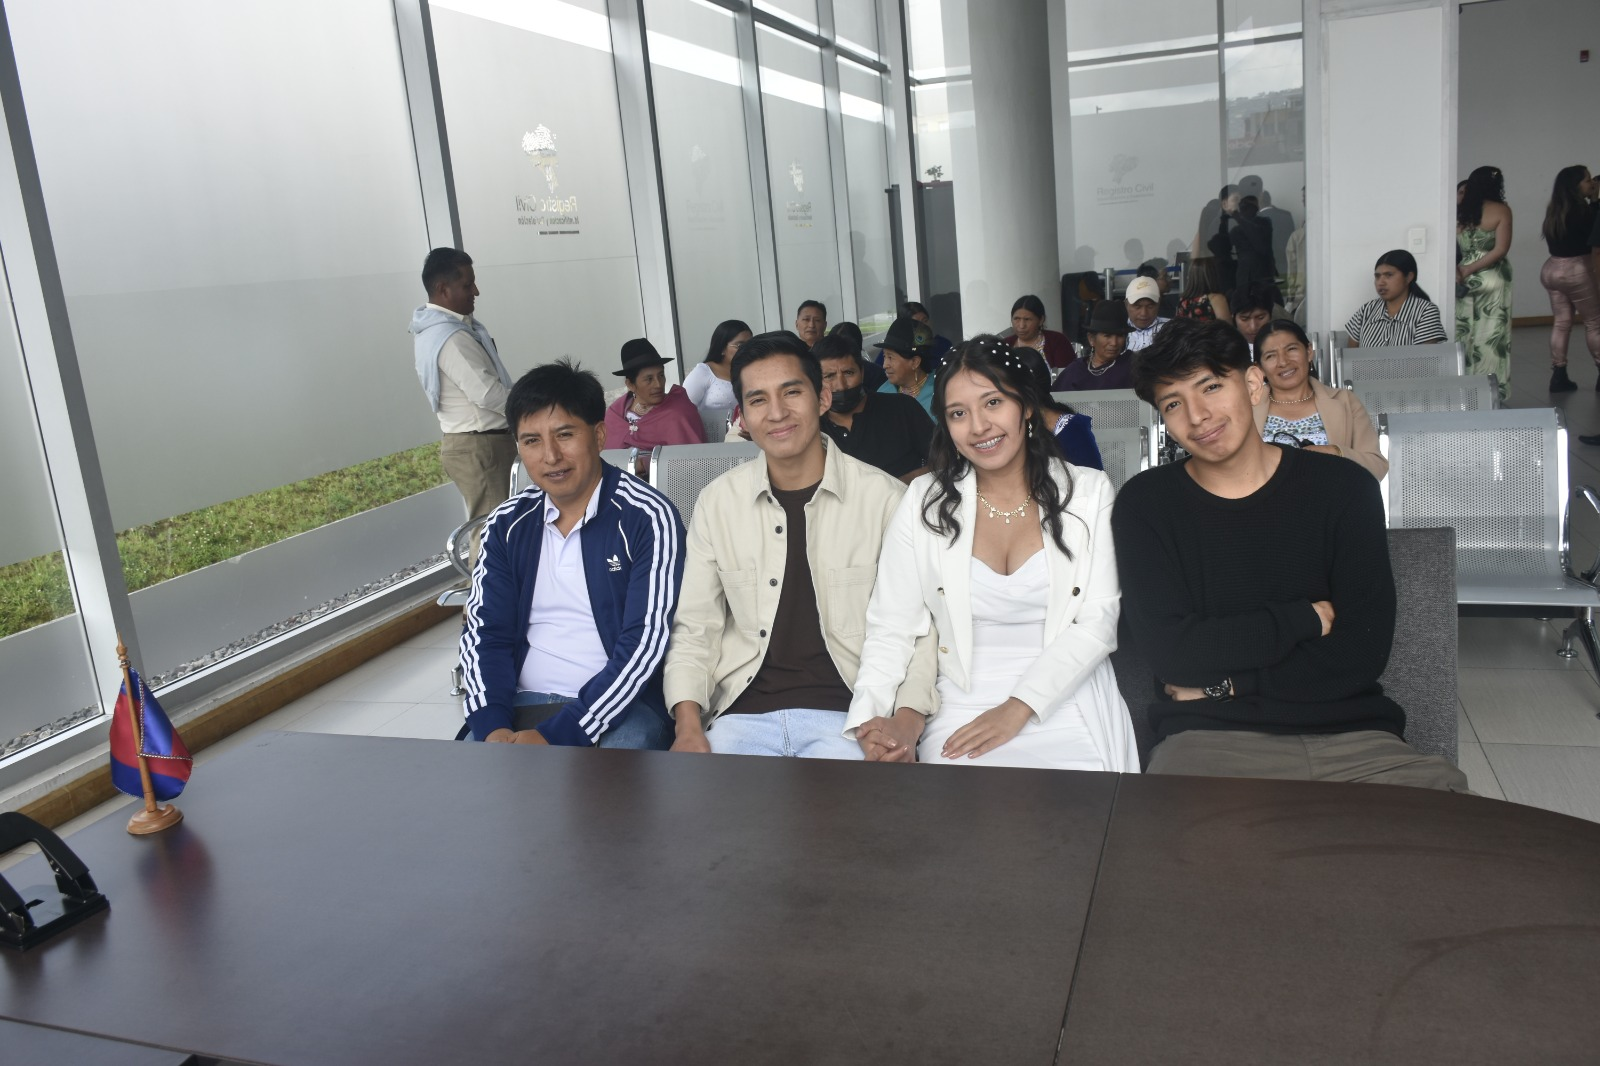
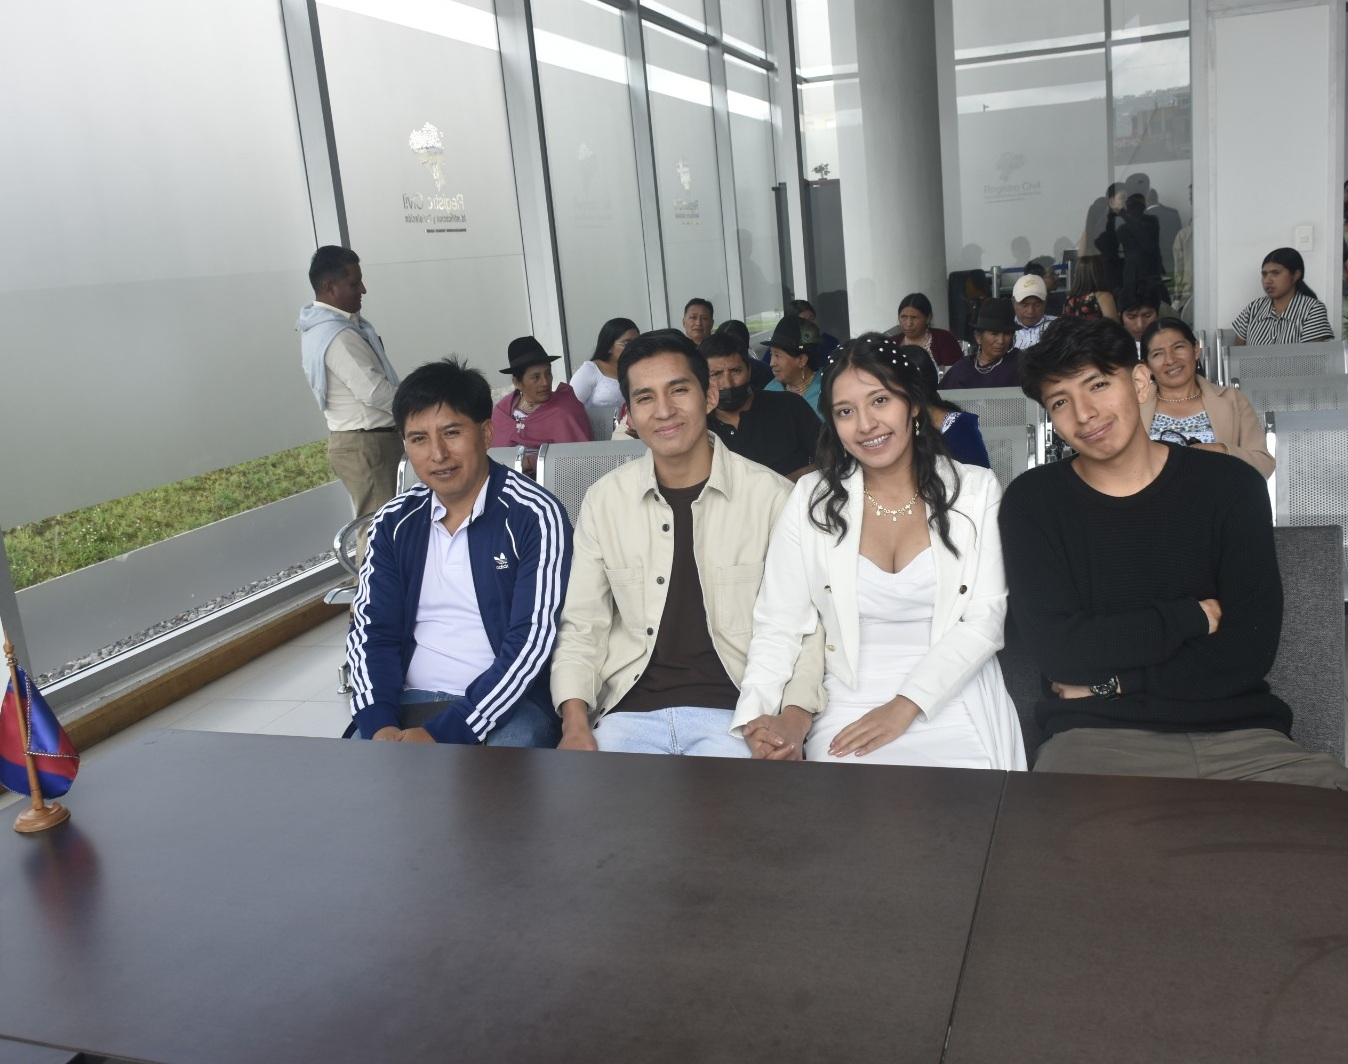
update images

diff --git a/marriage/src/components/wedding/rsvp-section.tsx b/marriage/src/components/wedding/rsvp-section.tsx
@@ -14,21 +14,20 @@ export function RsvpSection() {
     <section id="rsvp" className="bg-card py-20 md:py-28">
       <div className="mx-auto max-w-xl px-6 text-center">
         <p className="text-xs uppercase tracking-[0.3em] text-muted-foreground">
-          Be part of our day
+          Sé parte de nuestro día
         </p>
         <h2 className="mt-3 font-serif text-4xl text-foreground md:text-5xl text-balance">
-          RSVP
+          ASISTENCIA
         </h2>
         <p className="mt-4 leading-relaxed text-muted-foreground">
-          Kindly respond by August 1, 2026. We would be honored to celebrate
-          this special day with you.
+          Por favor responda antes del 5 de marzo de 2026. Sería un honor para nosotros celebrar este día especial con usted.
         </p>
 
         {submitted ? (
           <div className="mt-10 border border-border bg-background px-8 py-10">
-            <h3 className="font-serif text-2xl text-foreground">Thank You</h3>
+            <h3 className="font-serif text-2xl text-foreground">Gracias</h3>
             <p className="mt-3 text-muted-foreground">
-              {"We've received your RSVP and can't wait to celebrate with you!"}
+              {"Hemos recibido su confirmación y ¡no podemos esperar para celebrar con usted!"}
             </p>
           </div>
         ) : (
@@ -42,7 +41,7 @@ export function RsvpSection() {
                   htmlFor="firstName"
                   className="text-xs uppercase tracking-[0.15em] text-muted-foreground"
                 >
-                  First Name
+                  Nombre
                 </label>
                 <input
                   id="firstName"
@@ -57,7 +56,7 @@ export function RsvpSection() {
                   htmlFor="lastName"
                   className="text-xs uppercase tracking-[0.15em] text-muted-foreground"
                 >
-                  Last Name
+                  Apellido
                 </label>
                 <input
                   id="lastName"
@@ -74,7 +73,7 @@ export function RsvpSection() {
                 htmlFor="email"
                 className="text-xs uppercase tracking-[0.15em] text-muted-foreground"
               >
-                Email
+                Correo
               </label>
               <input
                 id="email"
@@ -90,7 +89,7 @@ export function RsvpSection() {
                 htmlFor="attendance"
                 className="text-xs uppercase tracking-[0.15em] text-muted-foreground"
               >
-                Attendance
+                Asistencia
               </label>
               <select
                 id="attendance"
@@ -98,9 +97,9 @@ export function RsvpSection() {
                 required
                 className="border border-border bg-background px-4 py-3 text-sm text-foreground outline-none transition-colors focus:border-accent"
               >
-                <option value="">Select an option</option>
-                <option value="attending">Joyfully Accepts</option>
-                <option value="not-attending">Respectfully Declines</option>
+                <option value="">Seleccione una opción</option>
+                <option value="attending">Asistirá con alegría</option>
+                {/* <option value="not-attending">Declina respetuosamente</option> */}
               </select>
             </div>
 
@@ -109,7 +108,7 @@ export function RsvpSection() {
                 htmlFor="guests"
                 className="text-xs uppercase tracking-[0.15em] text-muted-foreground"
               >
-                Number of Guests
+                Número de invitados
               </label>
               <select
                 id="guests"
@@ -120,6 +119,7 @@ export function RsvpSection() {
                 <option value="2">2</option>
                 <option value="3">3</option>
                 <option value="4">4</option>
+                <option value="5">5</option>
               </select>
             </div>
 
@@ -128,7 +128,7 @@ export function RsvpSection() {
                 htmlFor="message"
                 className="text-xs uppercase tracking-[0.15em] text-muted-foreground"
               >
-                Message (optional)
+                Mensaje (opcional)
               </label>
               <textarea
                 id="message"
@@ -142,7 +142,7 @@ export function RsvpSection() {
               type="submit"
               className="mt-2 border border-foreground bg-foreground px-8 py-3 text-xs uppercase tracking-[0.2em] text-background transition-colors hover:bg-transparent hover:text-foreground"
             >
-              Send RSVP
+              Enviar Asistencia
             </button>
           </form>
         )}

diff --git a/marriage/src/components/wedding/gallery-section.tsx b/marriage/src/components/wedding/gallery-section.tsx
@@ -3,41 +3,66 @@
 import Image from "next/image"
 
 const images = [
-  { src: "/images/marriage1.jpeg", alt: "Wedding ceremony setup in garden" },
-  { src: "/images/marriage1.jpeg", alt: "Couple walking in the park" },
-  { src: "/images/marriage1.jpeg", alt: "Reception venue decorated beautifully" },
-  { src: "/images/marriage1.jpeg", alt: "Engagement moment" },
+  { src: "/images/dan27.jpg", alt: "Wedding ceremony setup in garden" },
+  { src: "/images/dan26.jpg", alt: "Couple walking in the park" },
+  { src: "/images/dan35.jpg", alt: "Reception venue decorated beautifully" },
+  { src: "/images/dan33.jpg", alt: "Engagement moment" },
+  { src: "/images/marriage2.jpeg", alt: "Engagement moment" },
+  { src: "/images/dan29.jpg", alt: "Engagement moment" },
 ]
+
+function AnimatedImage({ src, alt, aspect }: { src: string; alt: string; aspect: string }) {
+  return (
+    <div className={`group relative ${aspect} rounded-xl overflow-hidden shadow-lg cursor-pointer`}>
+      <Image
+        src={src}
+        alt={alt}
+        fill
+        className="object-cover transition-transform duration-700 ease-out group-hover:scale-110"
+      />
+
+      <div className="absolute inset-0 bg-black/0 transition-all duration-500" />
+
+      <div className="absolute inset-0 flex items-center justify-center opacity-0 group-hover:opacity-100 transition duration-500">
+        <span className="text-white text-lg tracking-wide">
+   
+        </span>
+      </div>
+    </div>
+  )
+}
 
 export function GallerySection() {
   return (
-    <section id="gallery" className="bg-background py-20 md:py-28">
+    <section className="bg-background py-20 md:py-28">
       <div className="mx-auto max-w-6xl px-6">
+
         <div className="text-center">
-          <p className="text-xs uppercase tracking-[0.3em] text-muted-foreground">
-            Moments to cherish
-          </p>
-          <h2 className="mt-3 font-serif text-4xl text-foreground md:text-5xl text-balance">
-            Gallery
-          </h2>
+          <h2 className="font-serif text-4xl md:text-5xl">Gallery</h2>
         </div>
 
-        <div className="mt-14 grid grid-cols-1 gap-4 sm:grid-cols-2">
-          {images.map((img, i) => (
-            <div
-              key={i}
-              className={`relative overflow-hidden ${
-                i === 0 || i === 3 ? "aspect-[2/3]" : "aspect-[3/2]"
-              }`}
-            >
-              <Image
-                src={img.src}
-                alt={img.alt}
-                fill
-                className="object-cover transition-transform duration-500 hover:scale-105"
-              />
+        <div className="mt-14 space-y-10">
+
+          {/* BLOQUE SUPERIOR */}
+          <div className="grid grid-cols-1 md:grid-cols-2 gap-6">
+            <AnimatedImage {...images[0]} aspect="aspect-[2/3]" />
+
+            <div className="grid gap-6">
+              <AnimatedImage {...images[1]} aspect="aspect-[3/2]" />
+              <AnimatedImage {...images[2]} aspect="aspect-[3/2]" />
             </div>
-          ))}
+          </div>
+
+          {/* BLOQUE INFERIOR */}
+          <div className="grid grid-cols-1 md:grid-cols-2 gap-6">
+            <div className="grid gap-6">
+              <AnimatedImage {...images[3]} aspect="aspect-[3/2]" />
+              <AnimatedImage {...images[4]} aspect="aspect-[3/2]" />
+            </div>
+
+            <AnimatedImage {...images[5]} aspect="aspect-[2/3]" />
+          </div>
+
         </div>
       </div>
     </section>

diff --git a/marriage/src/components/wedding/hero-section.tsx b/marriage/src/components/wedding/hero-section.tsx
@@ -10,14 +10,17 @@ export function HeroSection() {
         className="object-contain"
         priority
       />
-      <div className="absolute inset-0 bg-foreground/40" />
+      <div className="absolute inset-0 bg-foreground/25" />
 
       <div className="relative z-10 flex flex-col items-center px-6 text-center">
         <p className="mb-4 text-sm uppercase tracking-[0.3em] text-background/80">
-          Nos vamos a casar
+          
         </p>
-        <h1 className="font-serif text-5xl leading-tight text-background md:text-7xl lg:text-8xl text-balance">
-          Daniel & Nelly
+      
+        <h1 className="font-serif text-4xl mt-8 leading-tight text-background md:text-7xl lg:text-8xl text-balance">
+          Daniel 
+          & 
+          Nelly
         </h1>
         <div className="mt-6 flex items-center gap-4">
           <span className="h-px w-12 bg-background/50" />
@@ -25,13 +28,27 @@ export function HeroSection() {
             Marzo 15, 2026
           </p>
           <span className="h-px w-12 bg-background/50" />
+          
         </div>
+
         <a
           href="#rsvp"
           className="mt-10 border border-background/60 bg-background/10 px-10 py-3 text-xs uppercase tracking-[0.2em] text-background backdrop-blur-sm transition-colors hover:bg-background/20"
         >
           Confirme su asistencia
         </a>
+        {/* <div className="mt-6 flex items-center gap-4 max-w-md">
+          <p className="text-sm  text-background/80 ">
+            Por tanto, dejará el hombre a su padre y a su madre, y se unirá a su mujer, y serán una sola carne. <br />Génesis 2:24
+          </p>
+        </div> */}
+
+         {/* <a
+          href="#rsvp"
+          className="mt-10 border max-w-xl border-background/60 bg-background/10 px-10 py-3 text-xs uppercase tracking-[0.2em] text-background backdrop-blur-sm transition-colors hover:bg-background/20"
+        >
+         Por tanto, dejará el hombre a su padre y a su madre, y se unirá a su mujer, y serán una sola carne. <br />Génesis 2:24
+        </a> */}
       </div>
     </section>
   )

diff --git a/marriage/src/components/wedding/our-story.tsx b/marriage/src/components/wedding/our-story.tsx
@@ -9,7 +9,7 @@ const timeline = [
       Ambos estábamos un poco nerviosos, y la música fue el medio por el cual logramos conectar.
       Fue el comienzo de una hermosa amistad que rápidamente se convirtió en un propósito.
       `,
-    image: "/images/marriage1.jpeg",
+    image: "/images/marriage4.jpeg",
     imageAlt: "Emma and James walking together in a park during golden hour",
   },
   {
@@ -60,7 +60,7 @@ export function OurStory() {
                 <h3 className="mt-2 font-serif text-2xl text-foreground md:text-3xl">
                   {item.title}
                 </h3>
-                <p className="mt-4 leading-relaxed text-muted-foreground">
+                <p className="mt-4 leading-relaxed text-muted-foreground text-justify">
                   {item.description}
                 </p>
               </div>
